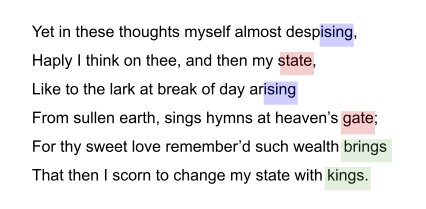
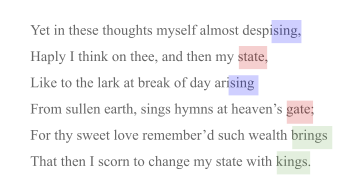
Improve hypertext doc

Changed region(s): [[0.0609, 0.0918, 0.9446, 0.9184]]

diff --git a/docs/spec/hypertext.md b/docs/spec/hypertext.md
@@ -129,7 +129,7 @@ Unlike HTML, anchors in intent do not need to nest cleanly; they can overlap. Th
 
 ##### Disjoint anchors
 
-Intent also supports anchors that encompass multiple, discontinuous stretches of content as a virtual unit. For example, suppose an English teacher wanted to illustrate the rhyme scheme in Shakespeare's sonnet. She might highlight the endings of multiple lines as part of a single disjoint anchor; when she later links to such an anchor, she can then point to the disconnected lines as a unit (e.g., the red lines here):
+Intent also supports anchors that encompass multiple, separate stretches of content as a single composite unit. For example, suppose an English teacher wants to illustrate the rhyme scheme in Shakespeare's sonnet. She might define the endings of rhyming lines to be part of a single __disjoint anchor__. When she later links to such an anchor, she is able to point to all items that share a common anchor ID as a unit. In the following example, she could point to the red lines, the blue lines, or the green lines as link targets:
 
 ![disjoint anchors](../collateral/disjoint-anchors.png)
 
@@ -143,7 +143,6 @@ From sullen earth, sings hymns at heaven’s [b:gate];
 For thy sweet love remember’d such wealth [c:brings]
 That then I scorn to change my state with [c+:kings].
 ```
-
 
 ### Hyperlinks
 
